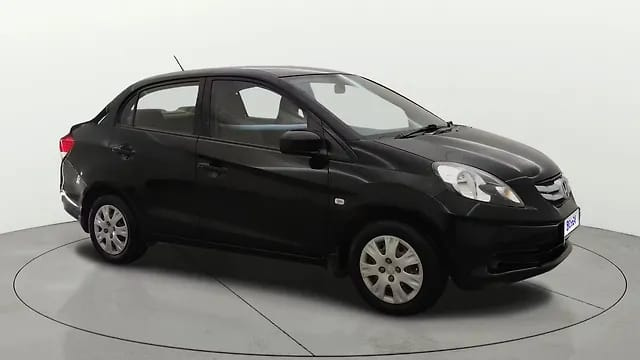
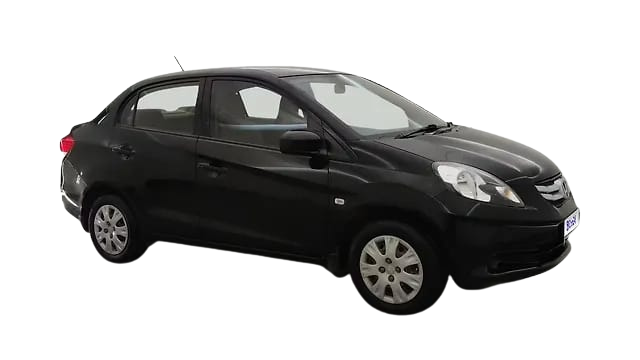
style: adjust Hero padding and remove Home page top padding

diff --git a/client/src/components/Hero.tsx b/client/src/components/Hero.tsx
@@ -53,7 +53,7 @@ export default function Hero() {
         <BotanicalRight />
       </div>
 
-      <div className="relative z-10 max-w-7xl mx-auto px-8 sm:px-12 lg:px-16 pt-24 pb-8">
+      <div className="relative z-10 max-w-7xl mx-auto px-8 sm:px-12 lg:px-16 pt-20 pb-8">
         <div className="grid lg:grid-cols-2 gap-6 lg:gap-8 items-center min-h-[560px]">
           {/* Left Content */}
           <div className="pr-0 lg:pr-8 -ml-4 lg:-ml-10 px-4 sm:px-6" style={{ maxWidth: '680px' }}>

diff --git a/client/src/pages/Home.tsx b/client/src/pages/Home.tsx
@@ -24,7 +24,7 @@ export default function Home() {
   }, []);
 
   return (
-    <div className="min-h-screen" style={{ paddingTop: '120px' }}>
+    <div className="min-h-screen">
       <Navbar />
       <Hero />
       <Fleet />